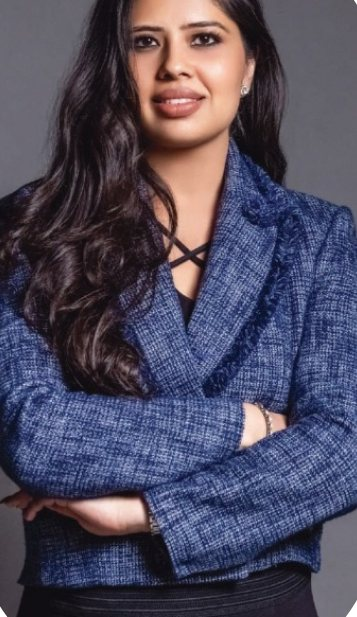
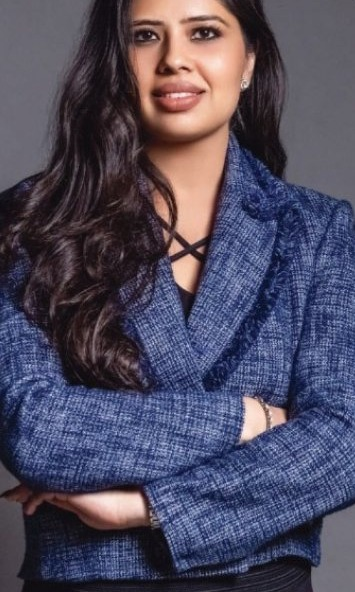
change iin the code

diff --git a/index.html b/index.html
@@ -55,8 +55,8 @@
       <!-- ============ STATS ============ -->
       <div class="stats">
         <div class="stat"><strong>25+</strong><span>Countries served</span></div>
-        <div class="stat"><strong>140+</strong><span>Designs to choose from</span></div>
-        <div class="stat"><strong>7–25</strong><span>Working days production</span></div>
+        <div class="stat"><strong>Thousands</strong><span>Of designs to choose from</span></div>
+        <div class="stat"><strong>20–25</strong><span>Working days production</span></div>
         <div class="stat"><strong>GIA · IGI</strong><span>Certification on request</span></div>
       </div>
 
@@ -204,8 +204,45 @@
         </div>
       </section>
 
+      <!-- ============ FOUNDER ============ -->
+      <section id="founder" class="section section-mist">
+        <div class="shell split founder">
+          <div class="split-media reveal">
+            <div class="founder-photo">
+              <img src="assets/company/founder-portrait.jpg" alt="Manisha Mehta, Founder of Infitrust International" width="355" height="592" loading="lazy" />
+            </div>
+            <p class="founder-name">Manisha Mehta<span>Founder, Infitrust International</span></p>
+          </div>
+
+          <div class="reveal">
+            <p class="eyebrow">About Our Founder</p>
+            <h2 class="section-title">Led by Manisha Mehta</h2>
+            <div class="rule"></div>
+            <div class="prose" style="margin-top: 1.75rem">
+              <p>
+                Manisha Mehta is the Founder of Infitrust International Pvt Ltd and Tenth Dimension Jewels, a luxury
+                fine jewellery house based in Bangalore, India.
+              </p>
+              <p>
+                An alumna of the IIM Bangalore Goldman Sachs 10,000 Women Entrepreneurs Program, Manisha holds
+                credentials from GIA and IGI in Diamonds, Gemology and Digital Sketching, and has completed
+                Import-Export Management from IIIEM. A Magna Cum Laude graduate of the USC Marshall School of Business,
+                she spent eight years in the United States across accounting, auditing, training, corporate banking
+                and restructuring.
+              </p>
+            </div>
+            <ul class="awards">
+              <li><svg class="icon"><use href="#i-award"></use></svg>DOI Designer of the Year Award</li>
+              <li><svg class="icon"><use href="#i-award"></use></svg>Women Achiever Award</li>
+              <li><svg class="icon"><use href="#i-award"></use></svg>Featured in The Best List — India's Trailblazing Women Raising the Next Generation</li>
+              <li><svg class="icon"><use href="#i-award"></use></svg>Committee Member, Jewellery Association of Bangalore (JAB) Women's Wing</li>
+            </ul>
+          </div>
+        </div>
+      </section>
+
       <!-- ============ CUSTOM DESIGN ============ -->
-      <section id="custom" class="section section-mist">
+      <section id="custom" class="section">
         <div class="shell">
           <div class="section-head center reveal">
             <p class="eyebrow">Custom Design · OEM &amp; ODM</p>
@@ -269,11 +306,19 @@
               <li><svg class="icon"><use href="#i-check"></use></svg>Your Logo</li>
             </ul>
           </div>
+
+          <div class="trust-badge reveal">
+            <span class="trust-badge-icon"><svg class="icon"><use href="#i-lock"></use></svg></span>
+            <div>
+              <h3>Confidentiality of designs</h3>
+              <p>Your designs, sketches and CAD files are kept strictly confidential — never shared with or sold to other clients.</p>
+            </div>
+          </div>
         </div>
       </section>
 
       <!-- ============ INFRASTRUCTURE ============ -->
-      <section class="section">
+      <section class="section section-mist">
         <div class="shell">
           <div class="section-head reveal">
             <p class="eyebrow">Our Infrastructure</p>
@@ -381,7 +426,7 @@
               <svg class="icon"><use href="#i-clock"></use></svg>
               <div>
                 <h4>Production timeline</h4>
-                <p>Ready stock ships immediately. Production takes 7–25 working days. Custom design development starts from 3–4 working days.</p>
+                <p>Ready stock ships immediately. Production takes 20–25 working days. Custom design development starts from 3–4 working days.</p>
               </div>
             </div>
             <div class="term reveal">
@@ -422,54 +467,17 @@
               <p>Shipping time is usually 4–10 working days, depending on the destination country and customs clearance.</p>
             </div>
             <ul class="carriers">
-              <li>FedEx</li>
-              <li>UPS</li>
-              <li>DHL</li>
-              <li>Aramex</li>
-            </ul>
-          </div>
-        </div>
-      </section>
-
-      <!-- ============ FOUNDER ============ -->
-      <section id="founder" class="section section-mist">
-        <div class="shell split founder">
-          <div class="split-media reveal">
-            <div class="founder-photo">
-              <img src="assets/company/founder-portrait.jpg" alt="Manisha Mehta, Founder of Infitrust International" width="357" height="617" loading="lazy" />
-            </div>
-            <p class="founder-name">Manisha Mehta<span>Founder, Infitrust International</span></p>
-          </div>
-
-          <div class="reveal">
-            <p class="eyebrow">About Our Founder</p>
-            <h2 class="section-title">Led by Manisha Mehta</h2>
-            <div class="rule"></div>
-            <div class="prose" style="margin-top: 1.75rem">
-              <p>
-                Manisha Mehta is the Founder of Infitrust International Pvt Ltd and Tenth Dimension Jewels, a luxury
-                fine jewellery house based in Bangalore, India.
-              </p>
-              <p>
-                An alumna of the IIM Bangalore Goldman Sachs 10,000 Women Entrepreneurs Program, Manisha holds
-                credentials from GIA and IGI in Diamonds, Gemology and Digital Sketching, and has completed
-                Import-Export Management from IIEM. A Magna Cum Laude graduate of the USC Marshall School of Business,
-                she spent eight years in the United States across accounting, auditing, training, corporate banking
-                and restructuring.
-              </p>
-            </div>
-            <ul class="awards">
-              <li><svg class="icon"><use href="#i-award"></use></svg>DOI Designer of the Year Award</li>
-              <li><svg class="icon"><use href="#i-award"></use></svg>Women Achiever Award</li>
-              <li><svg class="icon"><use href="#i-award"></use></svg>Featured in The Best List — India's Trailblazing Women Raising the Next Generation</li>
-              <li><svg class="icon"><use href="#i-award"></use></svg>Committee Member, Jewellery Association of Bangalore (JAB) Women's Wing</li>
+              <li><img src="assets/carriers/dhl.svg" alt="DHL" loading="lazy" /></li>
+              <li><img src="assets/carriers/fedex.svg" alt="FedEx" loading="lazy" /></li>
+              <li><img src="assets/carriers/ups.svg" alt="UPS" loading="lazy" /></li>
+              <li><img src="assets/carriers/aramex.svg" alt="Aramex" loading="lazy" /></li>
             </ul>
           </div>
         </div>
       </section>
 
       <!-- ============ FAQ ============ -->
-      <section id="faq" class="section">
+      <section id="faq" class="section section-mist">
         <div class="shell">
           <div class="section-head center reveal">
             <p class="eyebrow">FAQ</p>
@@ -526,7 +534,7 @@
               <summary>What is the production timeline?</summary>
               <p>
                 Ready stock shipments can be shipped immediately. For items that require production, it can take
-                anywhere between 7 to 25 working days. For custom designs, development time depends on the design —
+                anywhere between 20 to 25 working days. For custom designs, development time depends on the design —
                 the minimum time required would be 3–4 working days.
               </p>
             </details>
@@ -604,6 +612,15 @@
             <div class="field">
               <label for="f-message">Your requirements</label>
               <textarea id="f-message" name="message" placeholder="Design references, metal, stones, finish, branding, timeline…"></textarea>
+            </div>
+            <div class="field">
+              <label for="f-files">Attachments</label>
+              <input id="f-files" name="files" type="file" multiple accept="image/*,.pdf,.doc,.docx,.xls,.xlsx,.ppt,.pptx,.zip,.stl,.3dm" />
+              <p class="field-hint">
+                <svg class="icon"><use href="#i-paperclip"></use></svg>
+                Sketches, reference photos or CAD files. Once WhatsApp or your email opens, please attach these files
+                there too. All designs are kept strictly confidential.
+              </p>
             </div>
 
             <div class="form-buttons">

diff --git a/css/styles.css b/css/styles.css
@@ -827,9 +827,48 @@ h4 {
   display: grid;
   gap: 1.5rem;
   border-radius: var(--radius);
-  background-color: var(--white);
+  background-color: var(--mist);
   padding: 2rem;
   box-shadow: 0 0 0 1px var(--line);
+}
+
+/* Confidentiality trust badge */
+.trust-badge {
+  margin-top: 1.5rem;
+  display: flex;
+  align-items: center;
+  gap: 1.25rem;
+  border: 1px solid var(--sand);
+  border-radius: var(--radius);
+  background-color: var(--cream);
+  padding: 1.25rem 1.5rem;
+}
+
+.trust-badge-icon {
+  display: flex;
+  flex: none;
+  width: 3.25rem;
+  height: 3.25rem;
+  align-items: center;
+  justify-content: center;
+  border-radius: 50%;
+  background-color: var(--bronze-deep);
+  color: var(--white);
+}
+
+.trust-badge-icon .icon {
+  width: 1.5rem;
+  height: 1.5rem;
+}
+
+.trust-badge h3 {
+  font-size: 1.4rem;
+}
+
+.trust-badge p {
+  margin-top: 0.2rem;
+  font-size: 0.9rem;
+  color: var(--ink-soft);
 }
 
 .oem-box h3 {
@@ -1022,12 +1061,20 @@ h4 {
 }
 
 .carriers li {
+  display: flex;
+  align-items: center;
+  justify-content: center;
+  height: 4rem;
   border: 1px solid var(--line);
   border-radius: var(--radius);
-  padding: 0.4rem 0.9rem;
-  font-size: 0.8rem;
-  font-weight: 600;
-  letter-spacing: 0.08em;
+  background-color: var(--white);
+  padding: 0.75rem 1.1rem;
+}
+
+.carriers img {
+  width: 5.5rem;
+  height: 100%;
+  object-fit: contain;
 }
 
 /* ---------- Founder ---------- */
@@ -1038,10 +1085,7 @@ h4 {
 
 .founder-photo img {
   width: 100%;
-  aspect-ratio: 4 / 7;
   border-radius: 999px 999px var(--radius) var(--radius);
-  object-fit: cover;
-  object-position: top;
 }
 
 .founder-name {
@@ -1235,6 +1279,39 @@ h4 {
 .field textarea {
   min-height: 7rem;
   resize: vertical;
+}
+
+.field input[type="file"] {
+  cursor: pointer;
+  padding: 0.6rem;
+  font-size: 0.85rem;
+}
+
+.field input[type="file"]::file-selector-button {
+  margin-right: 0.85rem;
+  border: 1px solid var(--sand);
+  border-radius: var(--radius);
+  background-color: var(--white);
+  padding: 0.45rem 0.9rem;
+  font: inherit;
+  font-weight: 600;
+  cursor: pointer;
+}
+
+.field-hint {
+  margin-top: 0.45rem;
+  display: flex;
+  gap: 0.4rem;
+  font-size: 0.78rem;
+  color: var(--ink-soft);
+}
+
+.field-hint .icon {
+  flex: none;
+  width: 0.95rem;
+  height: 0.95rem;
+  margin-top: 0.15rem;
+  color: var(--bronze-deep);
 }
 
 .form-buttons {

diff --git a/js/main.js b/js/main.js
@@ -48,6 +48,9 @@ const ICONS = {
   award:
     '<path d="m15.477 12.89 1.515 8.526a.5.5 0 0 1-.81.47l-3.58-2.687a1 1 0 0 0-1.197 0l-3.586 2.686a.5.5 0 0 1-.81-.469l1.514-8.526"/><circle cx="12" cy="8" r="6"/>',
   check: '<circle cx="12" cy="12" r="10"/><path d="m9 12 2 2 4-4"/>',
+  lock: '<rect width="18" height="11" x="3" y="11" rx="2" ry="2"/><path d="M7 11V7a5 5 0 0 1 10 0v4"/>',
+  paperclip:
+    '<path d="m21.44 11.05-9.19 9.19a6 6 0 0 1-8.49-8.49l8.57-8.57A4 4 0 1 1 18 8.84l-8.59 8.57a2 2 0 0 1-2.83-2.83l8.49-8.48"/>',
   clock: '<circle cx="12" cy="12" r="10"/><polyline points="12 6 12 12 16 14"/>',
   card: '<rect width="20" height="14" x="2" y="5" rx="2"/><line x1="2" x2="22" y1="10" y2="10"/>',
   sparkles:
@@ -234,6 +237,8 @@ function initQuoteForm() {
   form.addEventListener("submit", (event) => {
     event.preventDefault();
     const f = form.elements;
+    // WhatsApp and email links can't carry files, so list them and the client attaches them in the chat/email
+    const fileNames = Array.from(f.files.files, (file) => file.name);
     const lines = [
       "Hello Infitrust, I would like a quotation.",
       "",
@@ -246,6 +251,8 @@ function initQuoteForm() {
       f.quantity.value ? `Quantity: ${f.quantity.value}` : null,
       f.message.value ? "" : null,
       f.message.value || null,
+      fileNames.length ? "" : null,
+      fileNames.length ? `Attachments (sending with this message): ${fileNames.join(", ")}` : null,
     ].filter((line) => line !== null);
     const text = lines.join("\n");
 

diff --git a/demi-fine-vermeil.html b/demi-fine-vermeil.html
@@ -31,7 +31,7 @@
               <p class="eyebrow">Gold Vermeil · Micron Plated · Everyday Luxury</p>
               <h1>Demi-Fine &amp; Vermeil Jewelry</h1>
               <p class="hero-sub">Everyday luxury on a 925 sterling silver base, finished in gold vermeil or micron plating with an anti-tarnish finish. Trend-led rings, bracelets, necklaces and pendants at price points that work for D2C brands and boutiques.</p>
-              <ul class="chips"><li><svg class="icon"><use href="#i-gem"></use></svg>925 Silver Base</li><li><svg class="icon"><use href="#i-sparkles"></use></svg>1 Micron Plated</li><li><svg class="icon"><use href="#i-shield"></use></svg>Anti-Tarnish</li><li><svg class="icon"><use href="#i-design"></use></svg>Trendy Designs</li></ul>
+              <ul class="chips"><li><svg class="icon"><use href="#i-gem"></use></svg>925 Silver Base</li><li><svg class="icon"><use href="#i-sparkles"></use></svg>Micron Plated</li><li><svg class="icon"><use href="#i-shield"></use></svg>Anti-Tarnish</li><li><svg class="icon"><use href="#i-design"></use></svg>Trendy Designs</li></ul>
               <div class="hero-buttons">
                 <a href="index.html?collection=demi-fine-vermeil#contact" class="btn btn-dark">Get a Quote</a>
                 <a href="#designs" class="btn btn-outline">View Designs</a>
